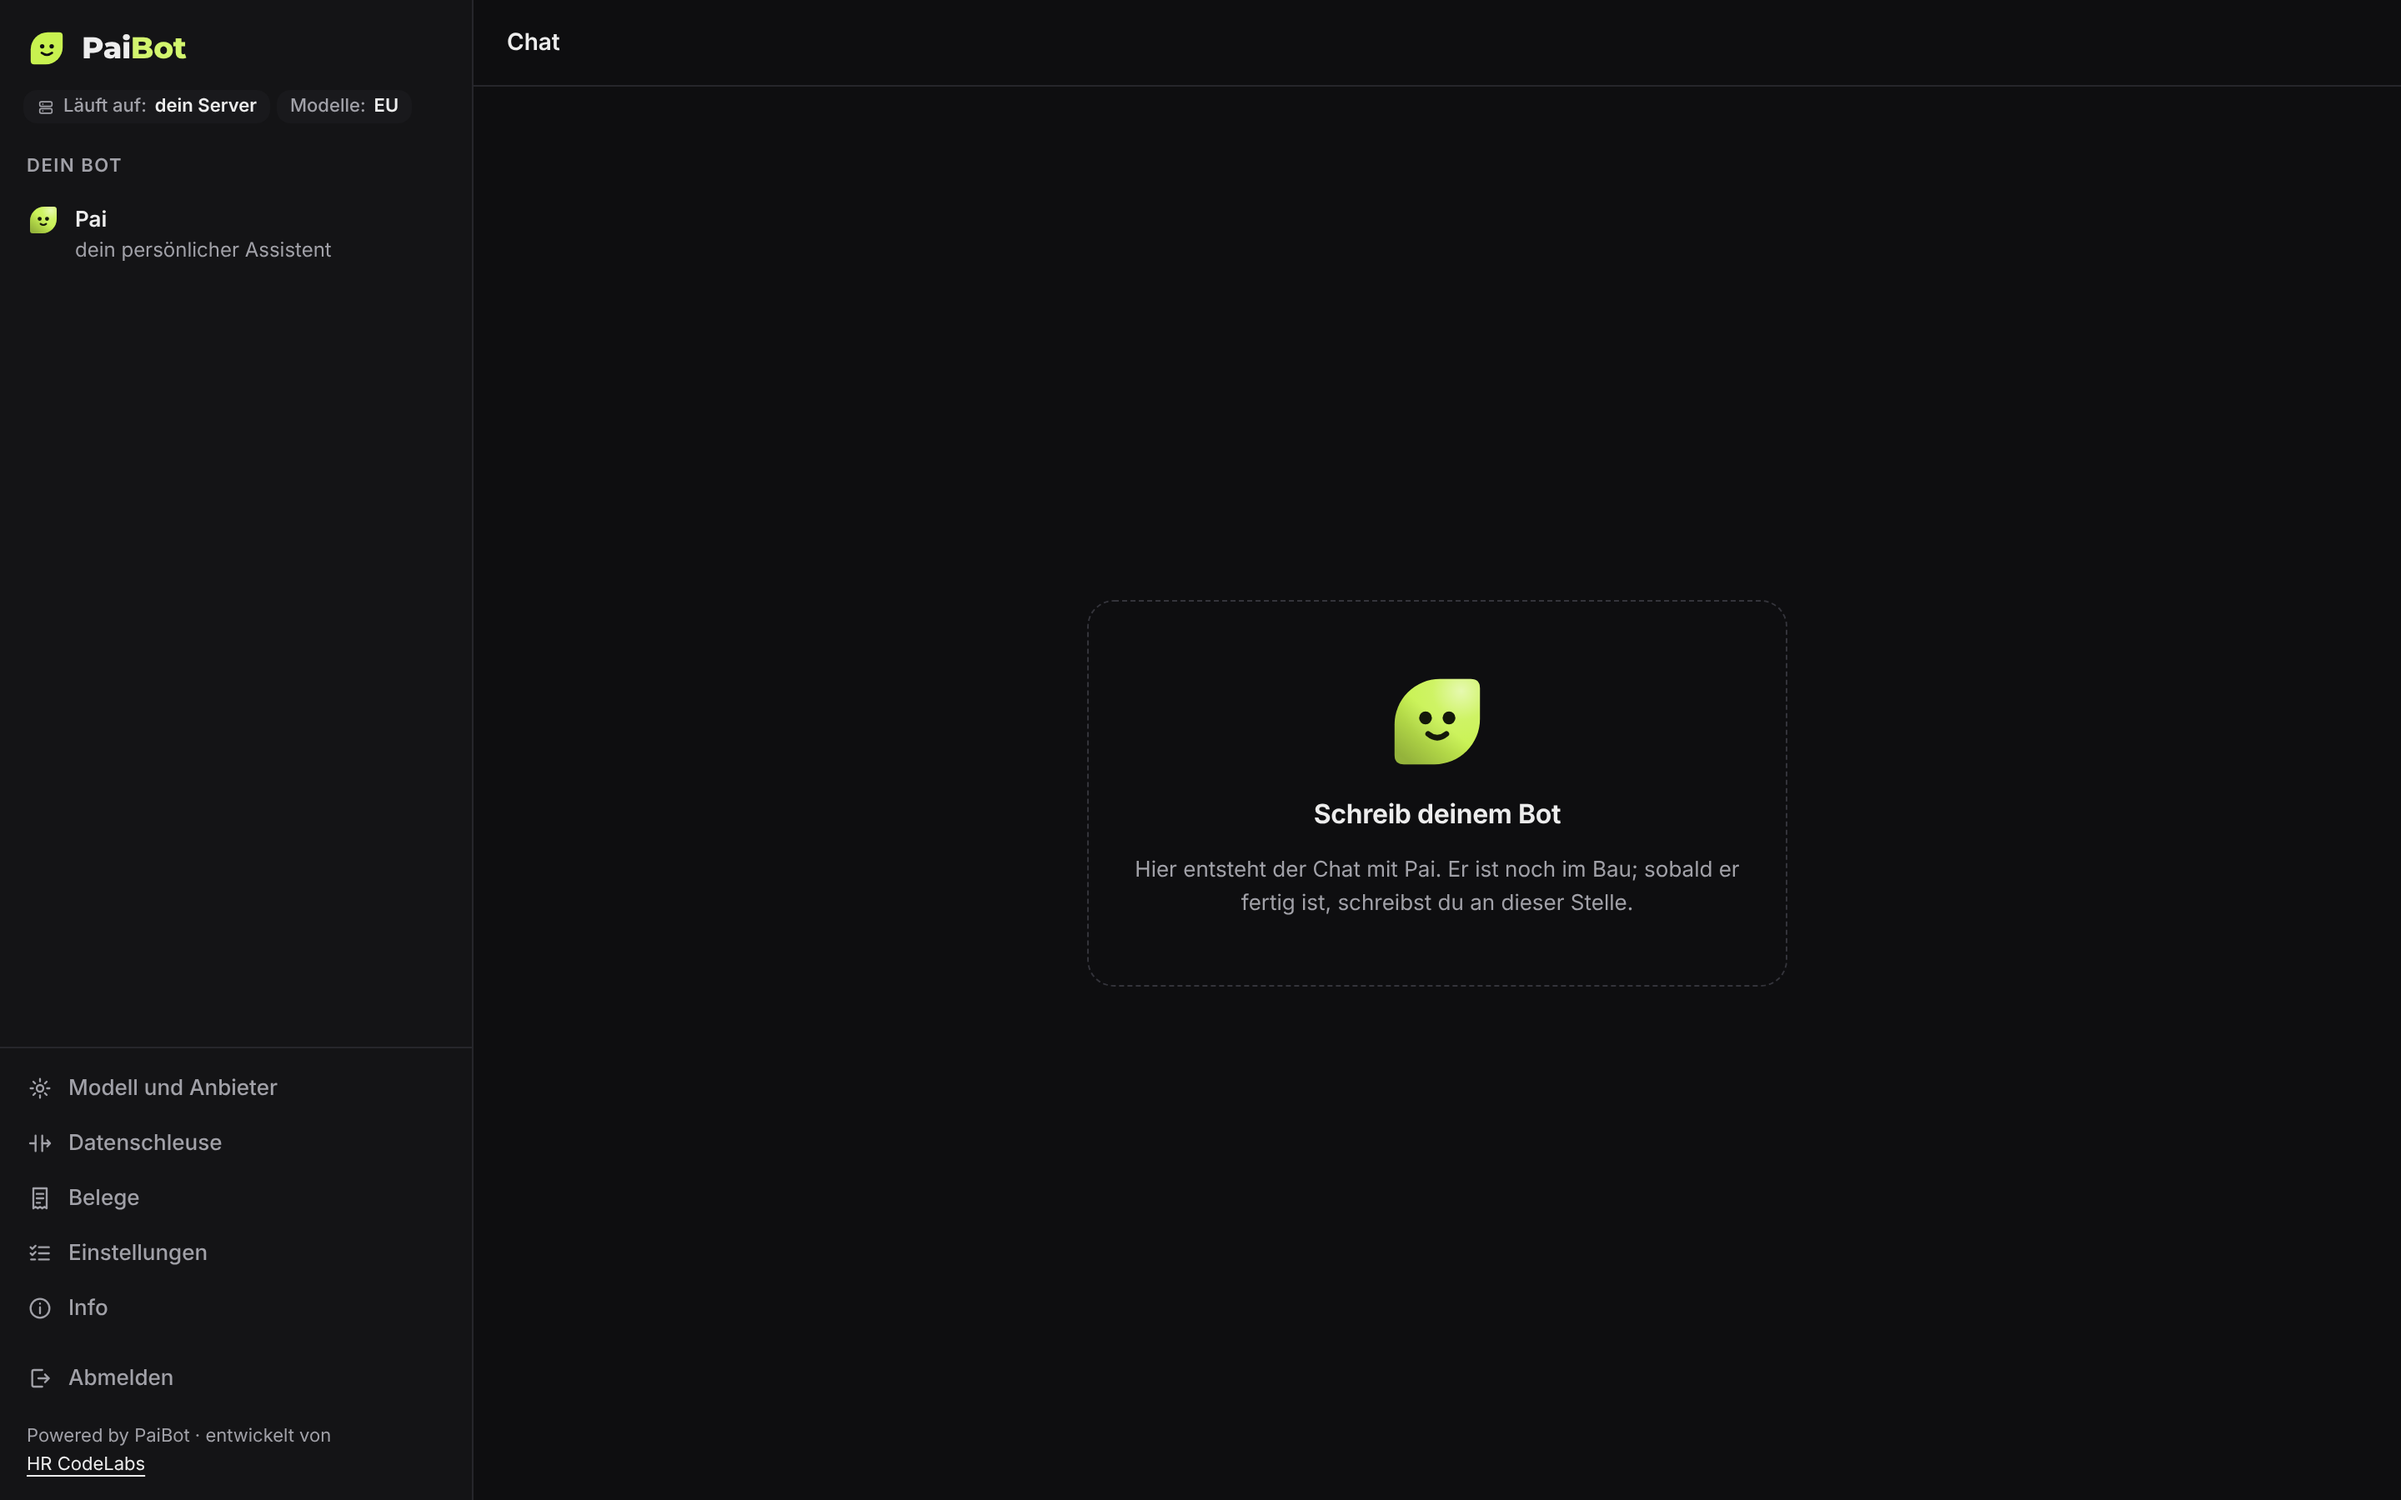
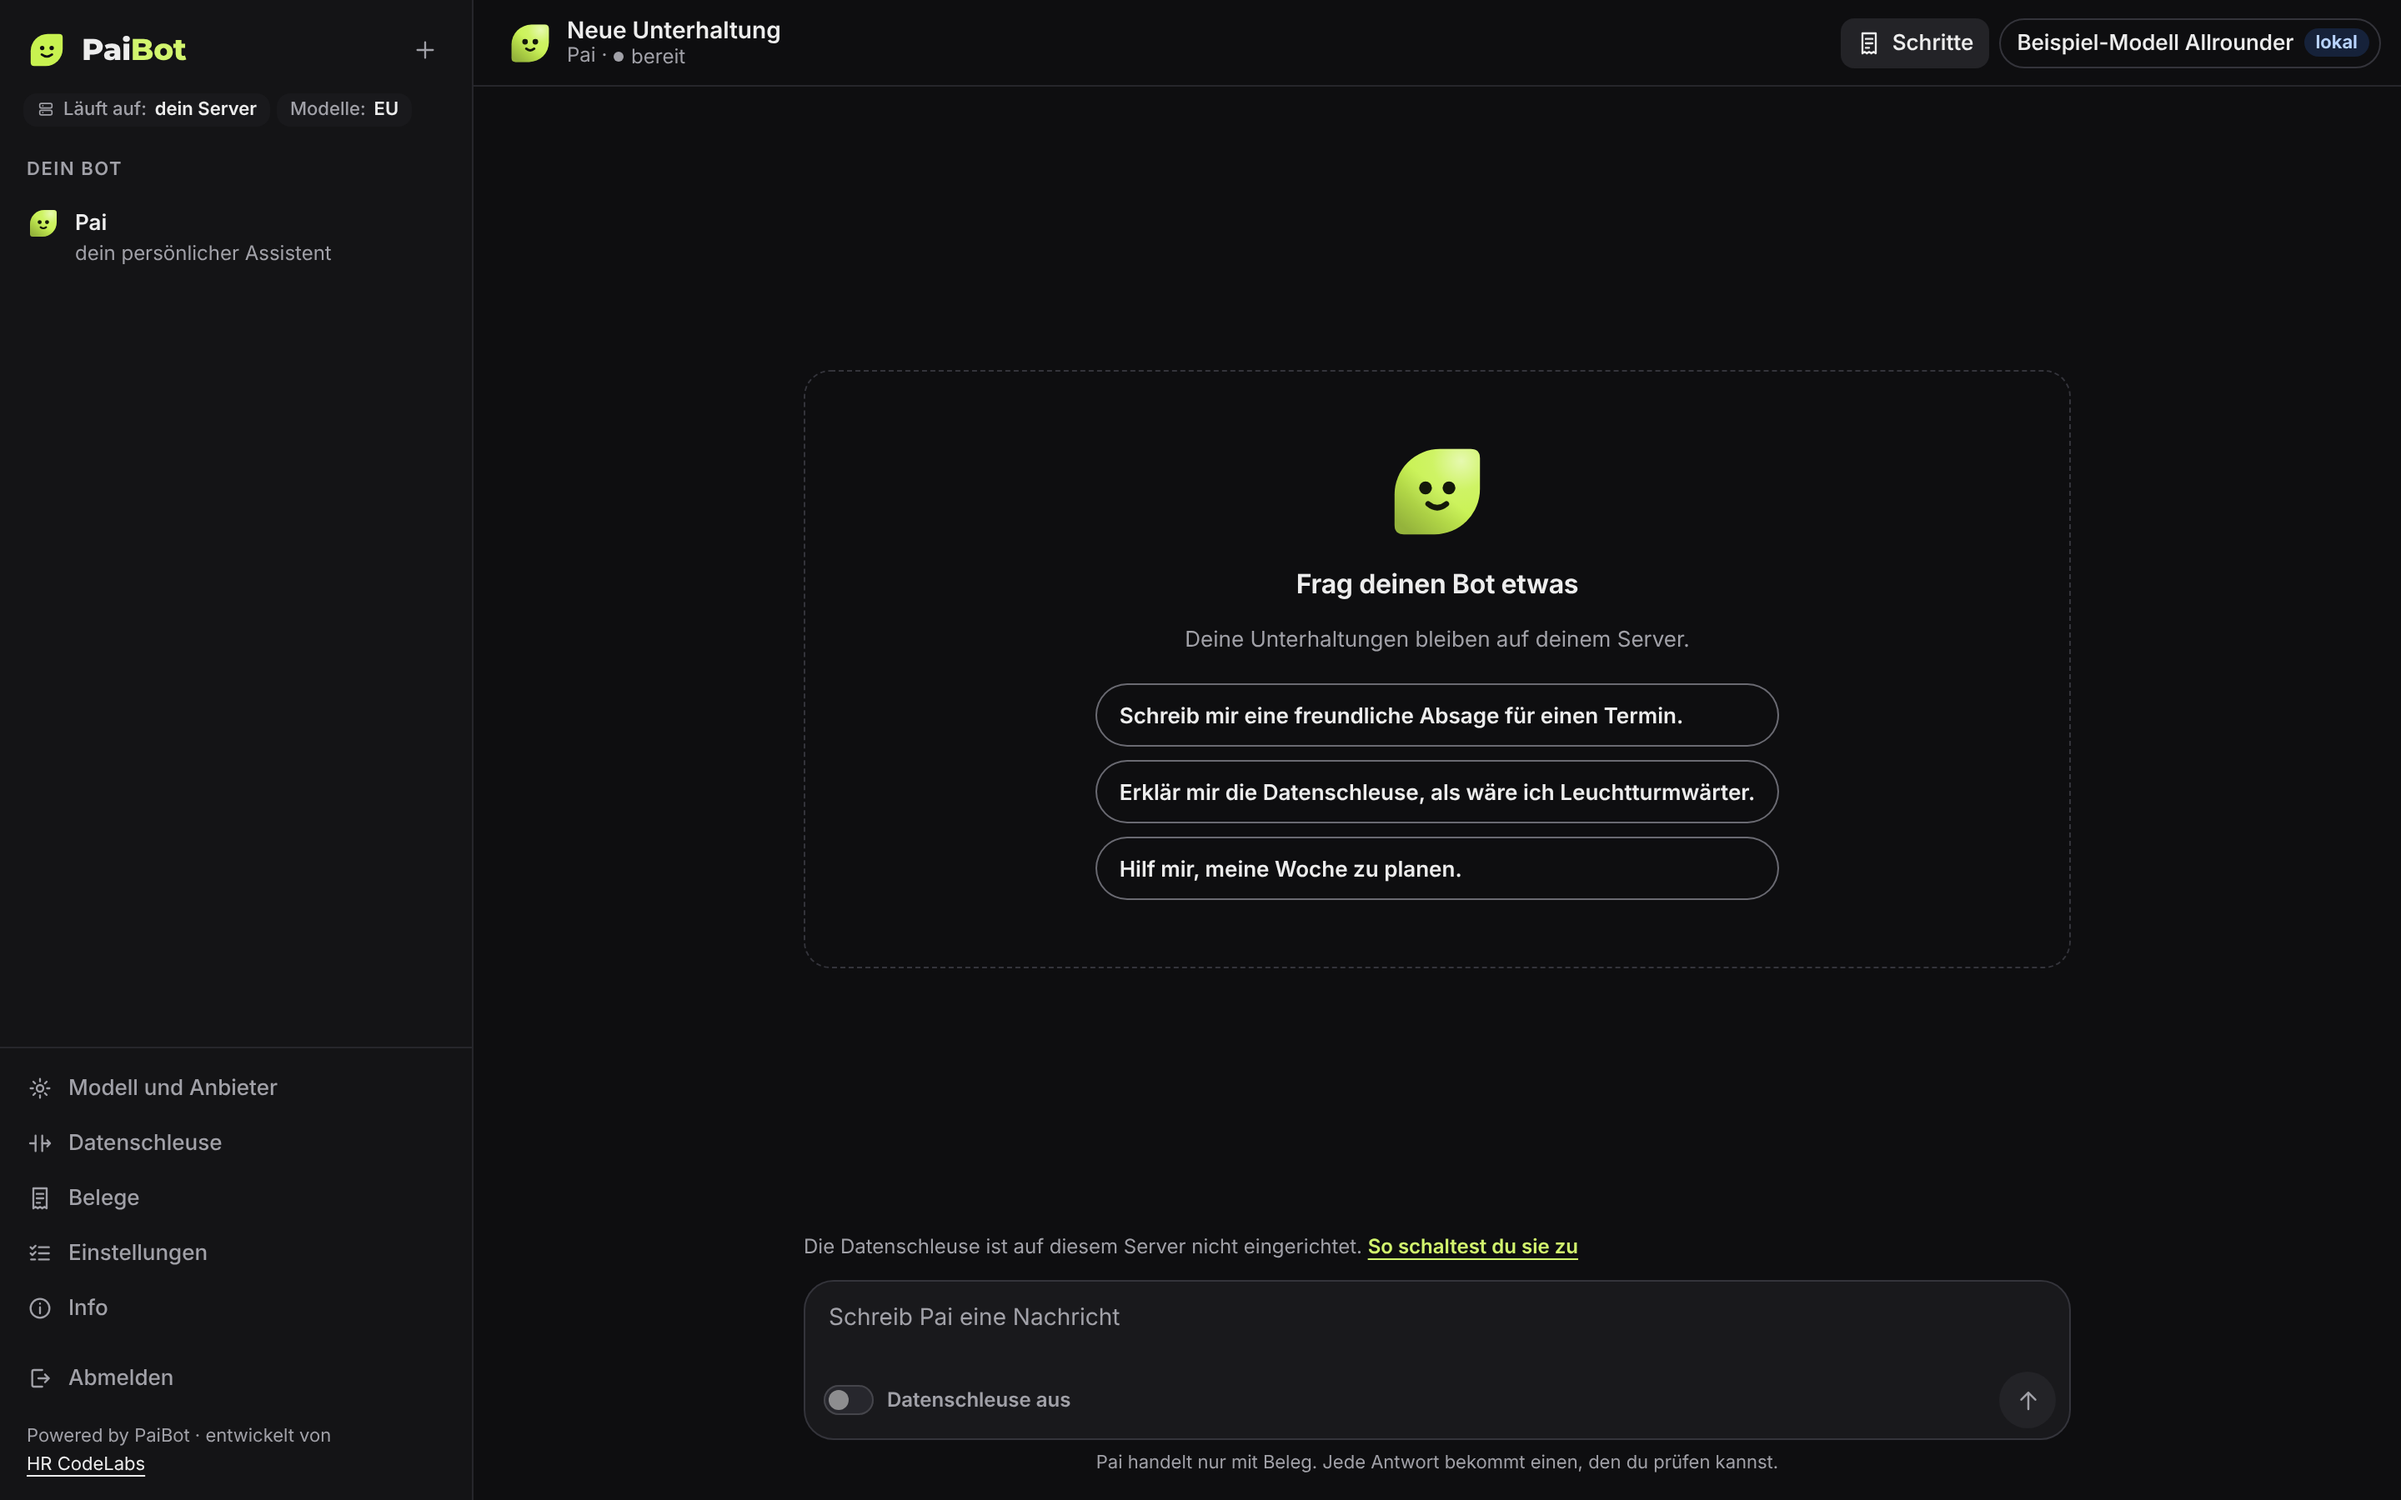
docs: Bild der App nach der Einrichtung neu aufgenommen
Die Startseite zeigt jetzt den Chat statt des Platzhalters; Schritt und
Bildbeschreibung passen dazu.

Claude-Session: https://claude.ai/code/session_01MLo9cAeNc1r994E5agV7ky

diff --git a/docs/funktion-einrichtung-und-zugang.md b/docs/funktion-einrichtung-und-zugang.md
@@ -72,9 +72,9 @@ Die Bilder zeigen eine Installation mit Beispiel-Daten. Als Modell-Anbieter ist 
 
    ![„Alles bereit“: Haken bei Passwort, Name des Bots, verbundenem Anbieter und Modell, Hinweis „Datenschleuse als Standard aus“ und der Knopf „Zur App“](assets/screenshots/einrichtung-fertig.png)
 
-10. Die App öffnet sich: links dein Bot und die Navigation, in der Mitte der Platz für den Chat. Der Chat selbst ist noch im Bau.
+10. Die App öffnet sich: links dein Bot und die Navigation, in der Mitte eine neue Unterhaltung mit deinem Bot (siehe [Chat](funktion-chat.md)).
 
-    ![Die App nach der Anmeldung: links PaiBot, der Bot Pai und die Navigation mit „Abmelden“, in der Mitte „Schreib deinem Bot“ mit dem Hinweis, dass der Chat im Bau ist](assets/screenshots/app-start.png)
+    ![Die App nach der Anmeldung: links PaiBot, der Bot Pai und die Navigation mit „Abmelden“, in der Mitte „Frag deinen Bot etwas“ mit drei Vorschlägen und unten das Eingabefeld](assets/screenshots/app-start.png)
 
 ### Anmelden und Abmelden
 
